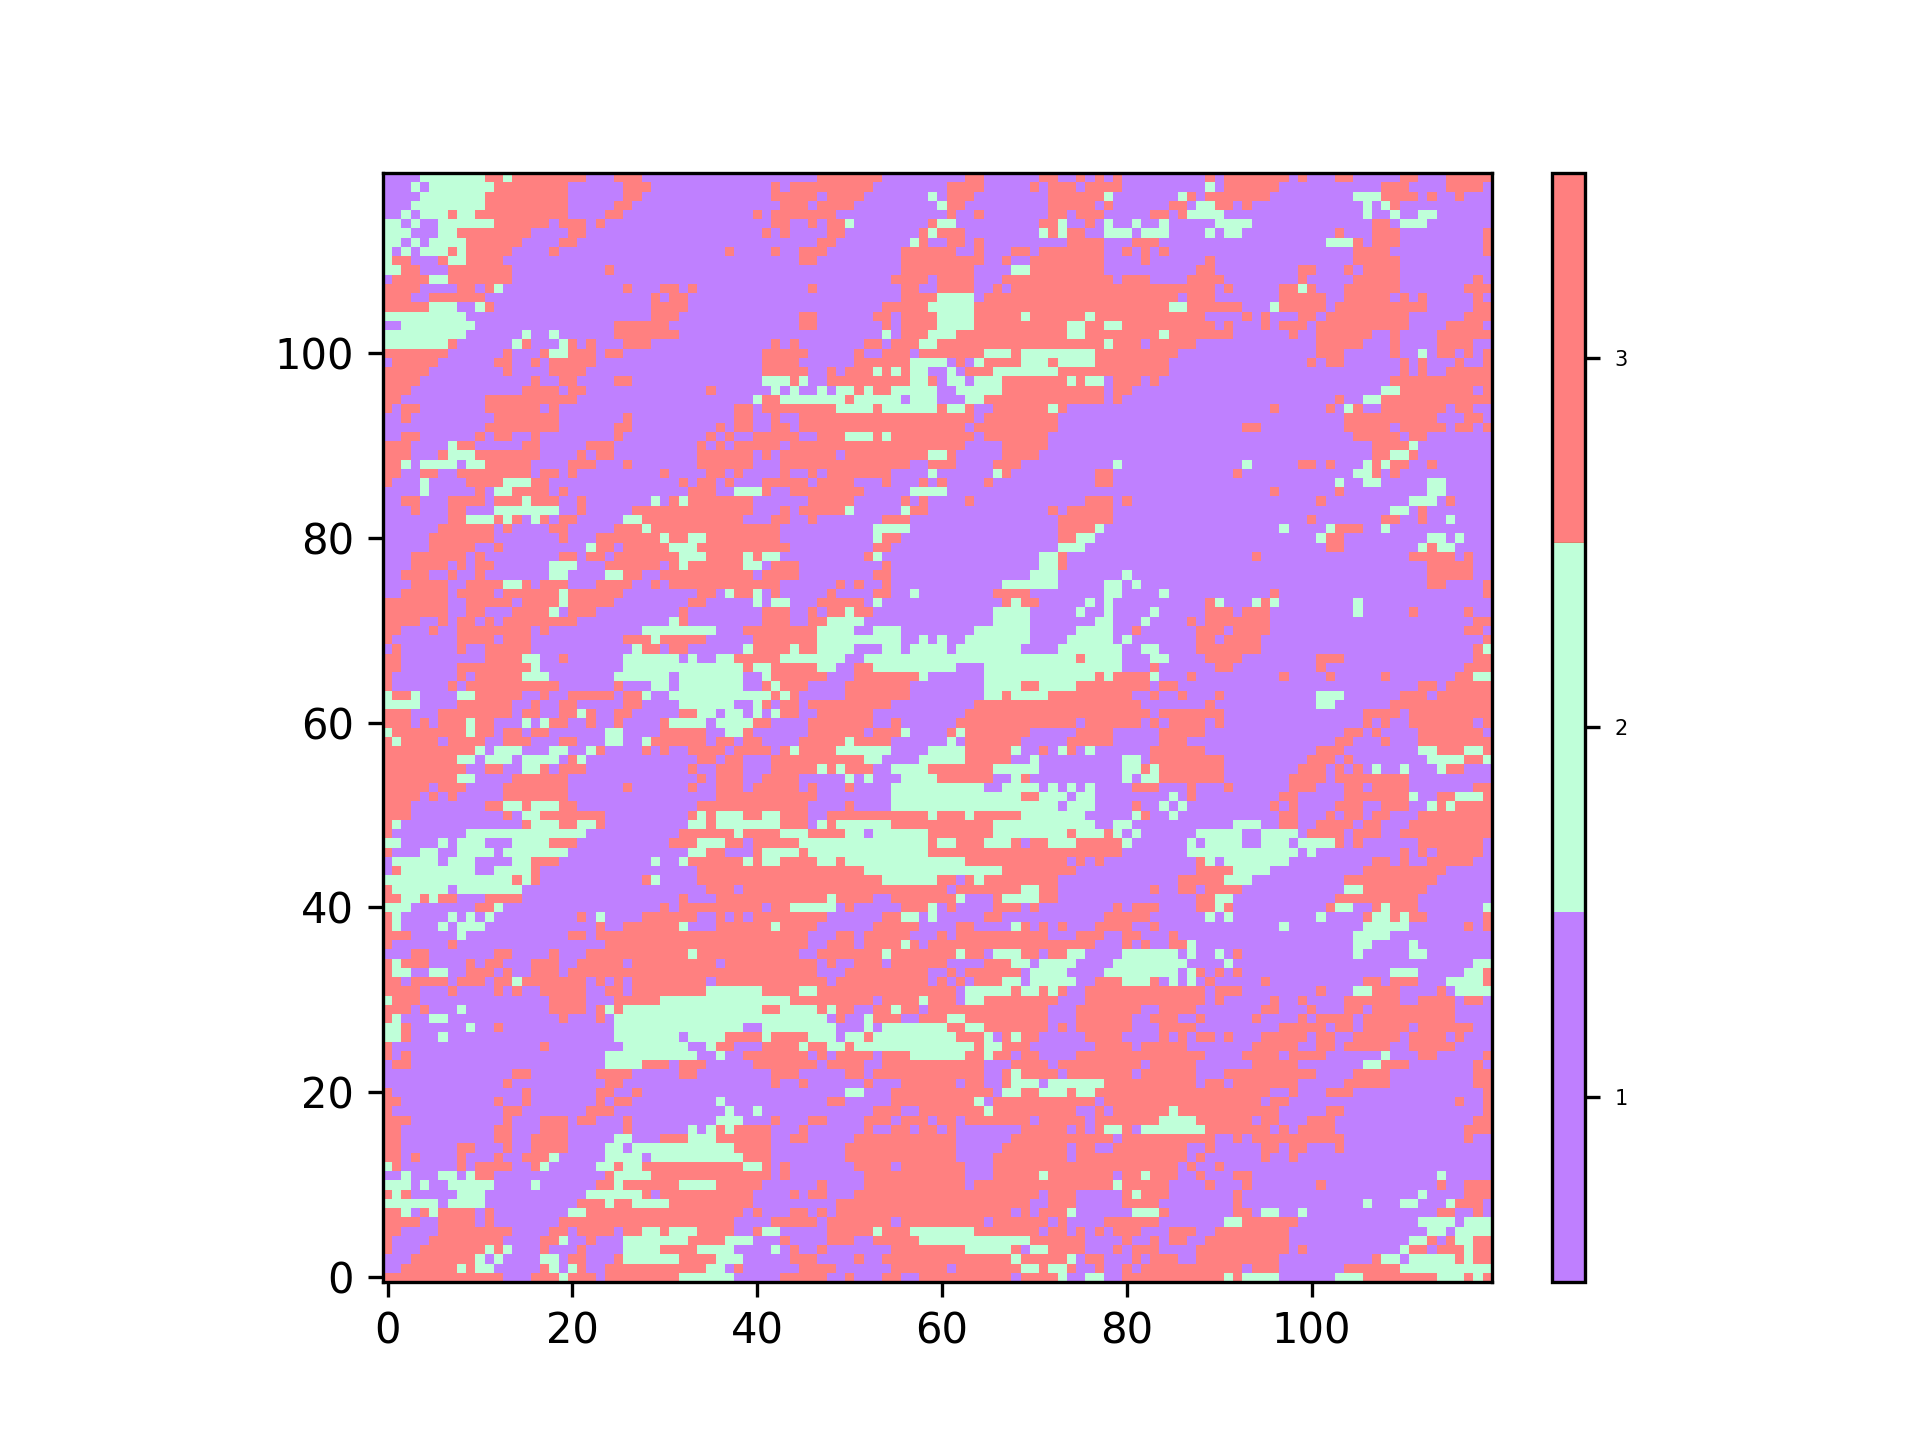
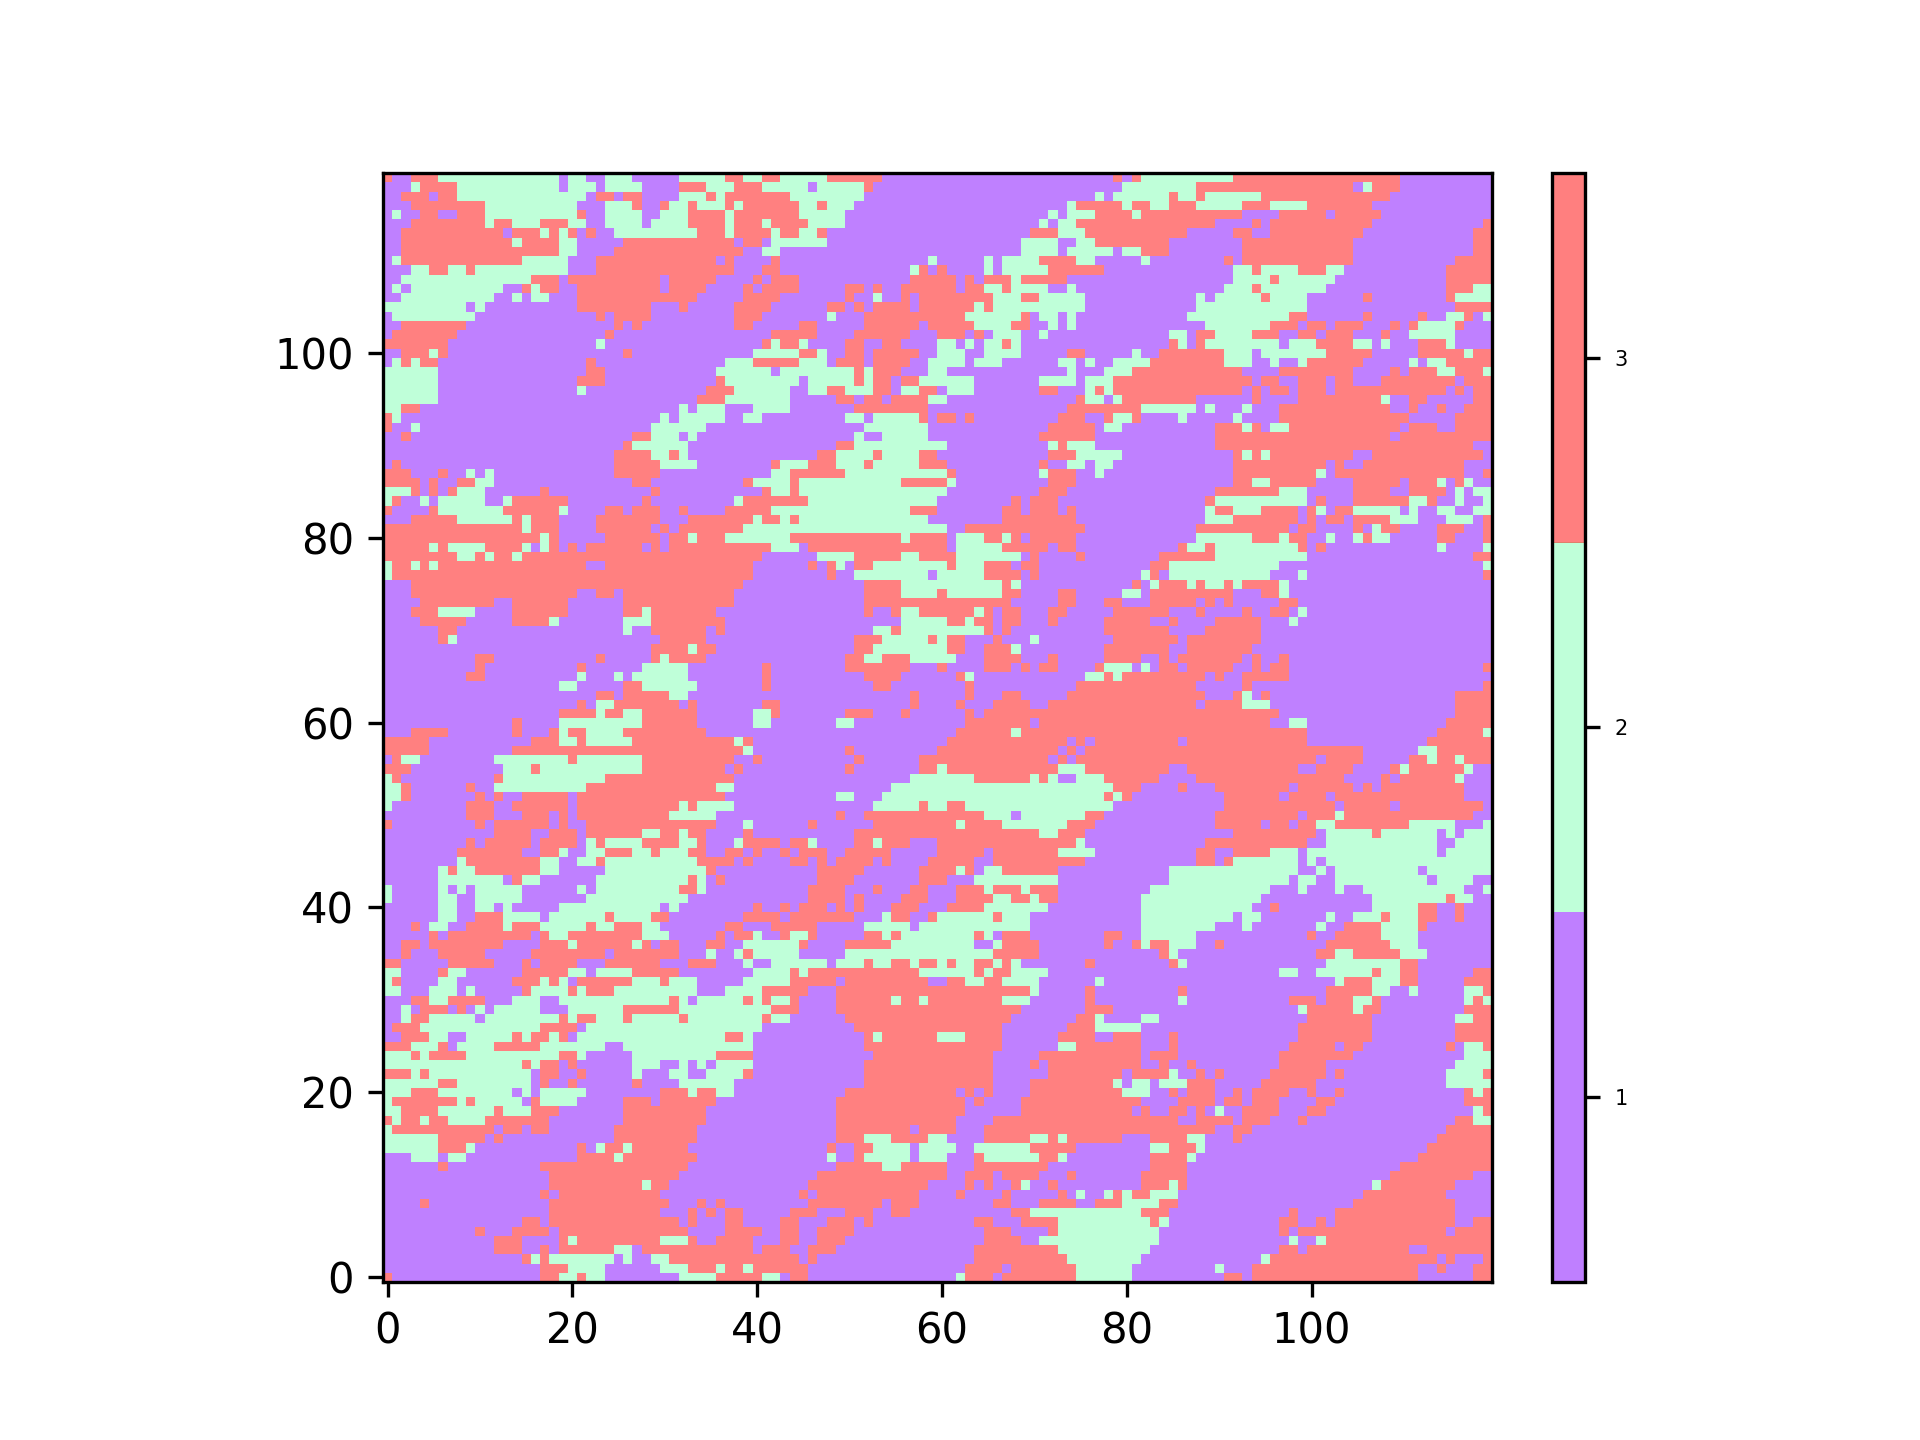
updated TPG example

Changed region(s): [[0.1875, 0.0938, 0.7812, 0.9062]]

diff --git a/tpg.py b/tpg.py
@@ -683,20 +683,20 @@ def makeTruncMap(g1, g2, rule_type, thresholds):
 	plt.figure()
 
 
-	plt.scatter(g1, g2, color='b', marker='.', alpha=0.5) # plot gaussian couples
+	plt.scatter(g1, g2, s=4, color='c', marker='o', alpha=0.3) # plot gaussian couples
 
 	# Plot threshold lines
 	if rule_type == 1:
-		plt.axvline(x=thresholds[0], color='r', alpha=0.8, linestyle='--', linewidth=0.2)
-		plt.axhline(y=thresholds[1], xmin=thresholds[0], xmax=x_endpoints[1], color='r', alpha=0.8, linestyle='--', linewidth=0.2)
+		plt.vlines(x=thresholds[0], color='r', linestyle='-', linewidth=2, alpha=0.7)
+		plt.hlines(y=thresholds[1], xmin=thresholds[0], xmax=x_endpoints[1], color='r', linestyle='-', linewidth=2, alpha=0.7)
 	
 	elif rule_type == 2:
-		plt.axvline(x=thresholds[0], ymin=y_endpoints[0], ymax=thresholds[1], color='r', alpha=0.8, linestyle='--', linewidth=0.2)
-		plt.axhline(y=thresholds[1], color='r', alpha=0.8, linestyle='--', linewidth=0.2)
+		plt.vlines(x=thresholds[0], ymin=y_endpoints[0], ymax=thresholds[1], color='r', linestyle='-', linewidth=2, alpha=0.7)
+		plt.hlines(y=thresholds[1], xmin=x_endpoints[0], xmax=x_endpoints[1], color='r', linestyle='-', linewidth=2, alpha=0.7)
 	
 	elif rule_type == 3:
-		plt.axvline(x=thresholds[0], color='r', alpha=0.8, linestyle='--', linewidth=0.2)
-		plt.axhline(y=thresholds[1], xmin=x_endpoints[0], xmax=thresholds[0], color='r', alpha=0.8, linestyle='--', linewidth=0.2)
+		plt.vlines(x=thresholds[0], color='r', linestyle='-', linewidth=2, alpha=0.7)
+		plt.hlines(y=thresholds[1], xmin=x_endpoints[0], xmax=thresholds[0], color='r', alpha=0.7, linestyle='-', linewidth=2)
 
 	plt.xlim(x_endpoints[0], x_endpoints[1])
 	plt.ylim(y_endpoints[0], y_endpoints[1])

diff --git a/makeTruncBiGaussian.py b/makeTruncBiGaussian.py
@@ -7,7 +7,7 @@ from mpl_toolkits.axes_grid1 import make_axes_locatable
 
 # Generate two continuous gaussian realizations using different variogram models
 #gaussian1 = tpg.genGaussianSim_2D_aniso(120, 120, 0.5, 0.5, 'exponential', 15, 0.3, 0)
-#gaussian2 = tpg.genGaussianSim_2D_aniso(120, 120, 0.5, 0.5, 'exponential', 10, 0.5, 45)
+#gaussian2 = tpg.genGaussianSim_2D_aniso(120, 120, 0.5, 0.5, 'spherical', 10, 0.5, 45)
 
 gaussian1 = np.loadtxt('gaussian1.txt') # to load preexisting files of gaussian realizations
 gaussian2 = np.loadtxt('gaussian2.txt')
@@ -37,7 +37,7 @@ plt.close()
 # Truncate according to given rock type rule 
 #thresholdLines = tpg.randTruncLines() # generate two random threshold lines 
 #faciesMap = tpg.truncBiGaussian24facies(gaussian1, gaussian2, thresholdLines) # thresholds given as lines
-faciesMap = tpg.truncBiGaussian23facies(gaussian1, gaussian2, 2, [-0.5, 0,2]) # thresholds given as list of values
+faciesMap = tpg.truncBiGaussian23facies(gaussian1, gaussian2, 2, [-0.5, 0]) # thresholds given as list of values
 
 # Display the derived facies map with a discrete colorbar 
 plt.close()
